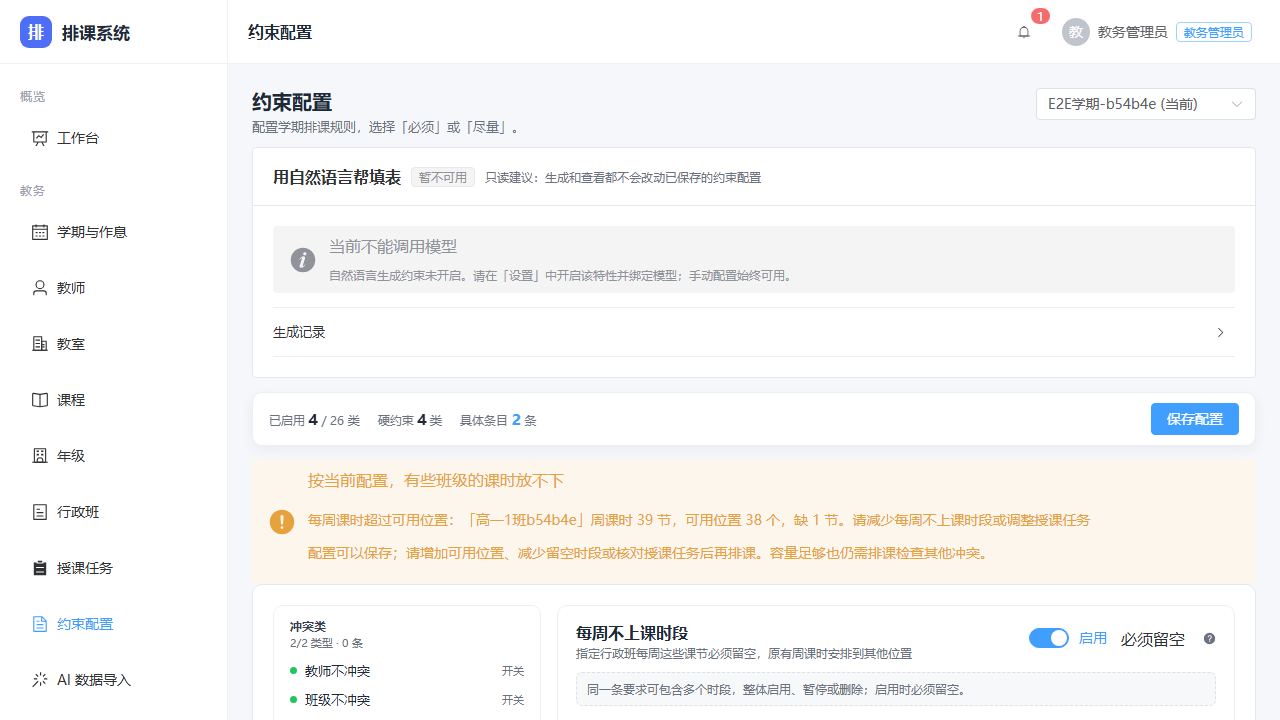
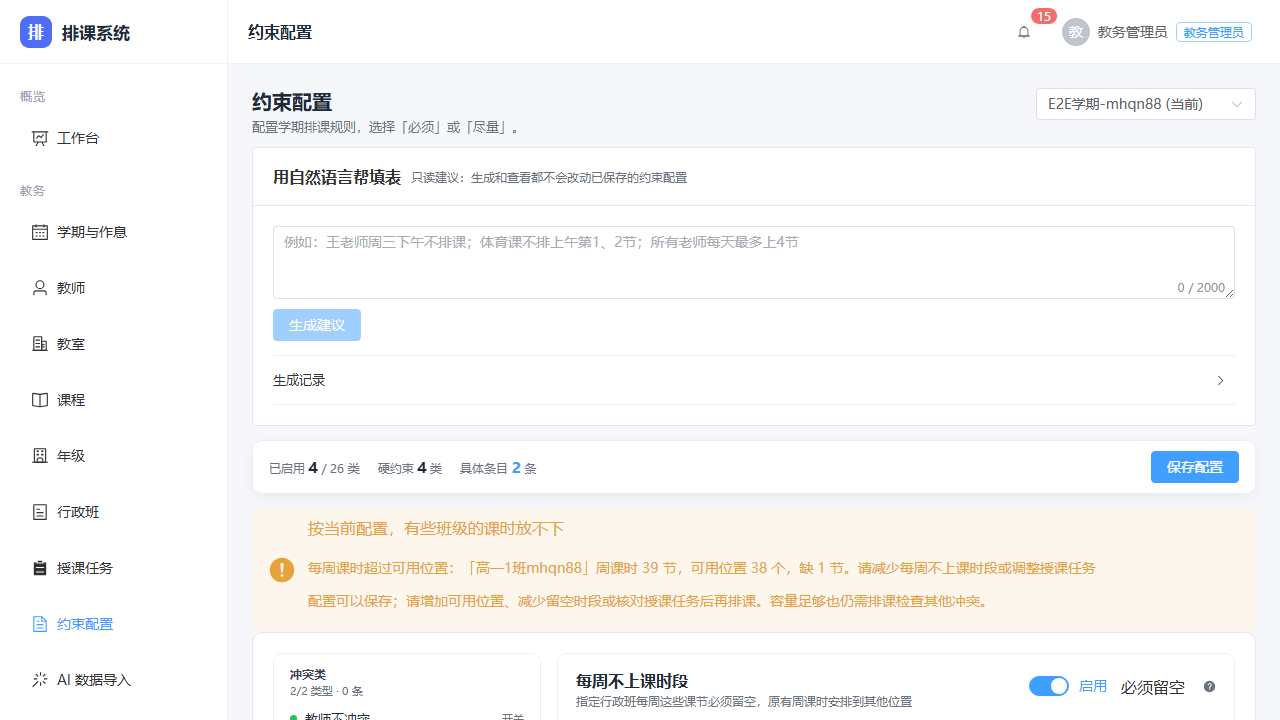
docs(scheduling): close six tickets with full acceptance evidence

diff --git a/.scratch/weekly-no-class-and-algorithm-fixes/acceptance.md b/.scratch/weekly-no-class-and-algorithm-fixes/acceptance.md
@@ -1,32 +1,47 @@
 # 06 统一验收记录
 
-当前阶段：源码与修复已收口，完整运行门禁尚未开始。各票仍in-progress，不能把定向通过当整批done。
+当前阶段：六票实现、主模型算法判断、两轴复审和本地完整门禁已完成。最终同提交GitHub CI的真实PostgreSQL检查是发布前的外部验证；本机没有Docker，不将H2替代它。本轮未合并main、未部署生产。
 
 ## 版本与范围
 
 - 集成分支：codex/weekly-no-class。
 - 原始基点：4c1cc191bcd286e99e42e4e4a8b7a3ebcd68ba1d。
-- 最后产品代码提交：4ea9444f1d5518b01477467cef7cc61bcdf2e78e。
-- 冻结源码tree：backend `8413a91b92c6cd3723011b0a7a7622050e6f8922`；frontend `822887dbaf86d805ba973056b84b7baffac25b55`；scripts `db843f8b157b4610141022fd9d3ddc879aeb4b0c`。
-- 无新增Flyway迁移，仓库最高V44；未部署生产或修改正式基线。
+- 最后产品逻辑提交：4ea9444f1d5518b01477467cef7cc61bcdf2e78e；其后274216b、2c2e52f仅修目录/浏览器断言与帮助文字。
+- 最终完整运行SHA：2c2e52fba165b269288af5c5eaf00731b4b65a16。
+- 冻结tree：backend `0c10a163060c2a2c06f7f319056f79bbe7ba4a5a`；frontend `39c79ffe8fec4ea3f61b186f8d38d17b4e52b1dd`；scripts `db843f8b157b4610141022fd9d3ddc879aeb4b0c`。
+- 完整运行后仅允许交付文档与截图变更。无新增Flyway迁移，最高V44；未修改正式基线。
 
 ## 评审与算法判断
 
-主模型独立判断见[algorithm-verdict.md](algorithm-verdict.md)。两轴首轮与处置、集中修复后的fresh review、最后分组碰撞修复核对分别见[round1](review-round1.md)、[round2](review-round2.md)、[round3](review-round3.md)。最后一轮Standards与Spec均无新增发现；保留的两项设计选择有明确理由，不作为未修缺陷藏起。
+主模型亲自完成[算法判断](algorithm-verdict.md)，结论限本批修正合格，不宣称全局最优。两轴处置及fresh review见[round1](review-round1.md)、[round2](review-round2.md)、[round3](review-round3.md)。接受项均已修复；两项保留设计有明确理由。最终目录/浏览器兼容补丁另经独立只读核对，保留旧断言含义并扩展新硬规则界面检查。
 
-## 执行记录
+## 最终完整运行
 
-| 层次 | 当前状态 | 证据与边界 |
+2026-11-01 23:35:30至2026-11-02 00:09（Asia/Shanghai），在隔离集成worktree运行 `bash scripts/verify.sh --full`，原始退出码 **0**，终行 `==> verify: ok`。运行期间未改源码或测试，结束后再次核对SHA及三个tree未变。
+
+| 层次 | 实际结果 | 边界 |
 |---|---|---|
-| 三算法反例与有界样本 | 定向完成 | 01–03票内各版本红绿记录，不累加重叠数 |
-| 单班/多班/全校/容量/模板/工作区 | 定向完成 | core/backend/scope-ui及published等delivery |
-| 灰格/拖拽/发布/新班/容量浏览器 | 前版三场景通过，新版范围title待全量执行 | e2e-delivery；后续补丁只追加范围断言 |
-| 分组身份追加反例 | 定向完成 | group-identity-delivery，原版四卡恢复三卡，修复后保持四卡 |
-| 冻结版完整verify.sh --full | 待执行 | 启动后记录实际SHA、退出码与统计 |
-| 真实PostgreSQL | 不计入本地H2 | 本机无Docker；最终同提交CI检查为交付依据 |
+| 后端Maven verify | 1110项，0失败、0错误、8跳过 | DeepSeekManualIT 2、PerformanceBenchmarkIT 2、PostgresContainerIT 4按设置跳过 |
+| 前端lint/build | 通过 | 未以构建代替运行 |
+| 前端单元测试 | 61文件、465项全部通过 | 同冻结版本 |
+| 仓库检查 | 全部通过 | SFC/local dates/e2e helper/isBlank/模块边界/迁移/票状态/AI超时 |
+| Playwright | **141/141通过**，13.3分钟 | 单worker、隔离端口28080/25173；新规则三场景和初中模式均实际执行 |
+| 真实PostgreSQL | 本地未运行 | 以该分支最终提交的PR checks和backend日志为外部证据，必须确认PostgresContainerIT正数执行且skipped=0 |
 
-定向历史数据分别保留在各delivery中，不能把不同版本、重叠用例加成一个虚构总数。本文件只汇总最后完整运行结果。
+参数：PAIBAN_MVN_EXTRA_ARGS=-DforkCount=0，VITEST_MAX_WORKERS=4，MAVEN_OPTS含-Xmx2048m；临时文件与截图均定向到当前worktree。doctor资源足够，但Docker/独立数据库缺失，非“全绿”。
+
+最终完整日志SHA-256：BAF9C67768DCB6A883EAC5411B81C1F58D38C5FE18057E7D4E2B3D6D5352C109。日志和运行缓存为任务临时文件，统计与哈希落盘后清理。
+
+## 失败历史与修正
+
+1. 82c9b66首次完整运行后端1110项中2失败，8跳过：旧entry-backed计数19实际20。前端/浏览器未启动。修正保留原19成员、加入新类型并验证非threshold；定向27项通过。见[catalogue-gate-delivery](catalogue-gate-delivery.md)。
+2. 274216b第二次完整运行后端、前端与仓库检查通过；浏览器133通过、3失败、5串行未运行。两处旧25目录断言和一处默认类型假设已修正；后续定向还发现并修复教师标题默认选择假设，最终三个spec10/10通过。见[e2e-catalogue-gate-delivery](e2e-catalogue-gate-delivery.md)。
+3. 2c2e52f重新完整运行得到上方退出0；没有用定向结果拼成整轮通过。
+
+历史定向数据见各delivery，不能累加不同版本及重叠测试。容量旧版公开API对照、分组碰撞反例、发布基线保护与权限/并发版本均有独立证据。
 
 ## 发布与保护
 
-发布边界、备份和回滚要求见[release-handoff.md](release-handoff.md)及部署跑册。本轮仅开发/验证；主仓库main原有17张已修改截图与其他原型资料不属于本任务，已核对main基点未改、没有暂存这些文件。任务临时worktree与进程在交付前清理。
+见[发布交接](release-handoff.md)及部署跑册。所有执行者worktree已移除，保留集成worktree；测试进程已退出、隔离端口释放。仅保留本功能三张验收截图，任务额外截图及缓存清理。主仓库main原有17张修改截图与其他原型不属于本任务，未暂存或清理。
+
+本记录不声称自然语言支持新第26类、不声称性能基准或真实模型测试已运行。发布后新增规则不自动改写既有基线；仅支持每周固定留空。

diff --git a/.scratch/weekly-no-class-and-algorithm-fixes/issues/03-gap-score-parity.md b/.scratch/weekly-no-class-and-algorithm-fixes/issues/03-gap-score-parity.md
@@ -1,11 +1,11 @@
 # 03: 空堂越多代价越高，求解与校验一致
 
-Status: in-progress
+Status: done
 Priority: P2
 **What to build:** 相同规则下，算法能区分空1节与空3节，优先减少可避免空堂。
 **Blocked by:** None
 **Spec:** ../spec.md
-**Gate:** 规格与拆票已确认并发布；已认领、已定向实现。done 待集成评审与完整门禁（票 06）。
+**Gate:** 已实现、集成、复审，并通过冻结版本完整门禁。最终执行结果、跳过项和真实数据库边界见../acceptance.md；未部署。
 
 - [x] 先固定审查证据A2：软权重40时，1个有效空位扣40、3个扣120；旧求解实现不能通过该断言。
 - [x] 同班最早与最晚课程之间，只统计真实存在且允许上课的空位置；当天边缘无课不计内部空堂。
@@ -14,7 +14,7 @@ Priority: P2
 - [x] 覆盖多个班级、多天、无空堂、多个空堂及不连续作息编号，避免只测一个分数。
 - [x] 定向回归通过，主模型确认评分含义，最终全量由06收口。
 
-## Delivery（implemented awaiting integration）
+## Delivery（历史定向记录；最终收口见06）
 
 - 分支：`codex/weekly-t03`，基点 `2352f04`（含票01晚自习计数的既有修复，未回退）；报告前合入集成 tip `2c54457`（票02 调课环修复），未更新集成分支。改动 `PaibanConstraintProvider.java` + `ConstraintChecker.java` + `EngineConstraintTest.java` + `ConstraintCheckerTest.java`（本票）。
 - 根因：求解器 `classGapMinimized` 只用 `periodNos` 排序后按 `sorted[i]-sorted[i-1]-1` 推算空位，再按「班级/星期」整组扣一次权重；作息缺号（真实只有第1、3节）时凭空造出第2节，且空3格仍只扣一份，故审查证据A2 两个输入都是 `0hard/-40soft`。校验器 `checkClassGap`/`softPenalty` 用 `max-min+1-used.size()`，在同一缺号课表上也会虚增一格。
@@ -28,3 +28,6 @@ Priority: P2
 - 合并后复跑（合入 `2c54457`，含票02 `SwapPlanner`）：主命令 `Tests run: 66, Failures: 0, Errors: 0, Skipped: 0`；扩展集（加票02 的 `SwapPlannerTest` 24 项）`Tests run: 154, Failures: 0, Errors: 0, Skipped: 0`；`SwapPlanPropertyTest` `Tests run: 1, Failures: 0`。三条命令退出码均为 0。
 - 覆盖：公共 `ScoreManager` 评分（1格扣40、3格扣120、缺号作息不虚构第2节、跨班跨天 4 格 -160、排满一天 0、硬配置仅在有真实空位时阻断、关闭不作用）与公共 `ConstraintChecker`（`softPenalty` 40/120、`checkHard` 真实空位才报违规、缺号作息不报、跨班跨天 160、首末之外不计），无 private 反射。
 - 边界与未验证项：本票只跑定向单元/纯 seam 测试，没有执行 HTTP 端点校验与 `ConstraintCatalogueAcceptanceTest` 等 `@SpringBootTest`（`test` profile 是内嵌 `jdbc:h2:mem:paiban_test`，本票未运行该层，不据此推断通过）；该 HTTP 集成层、Playwright 与完整门禁由票06 收口，真实 PostgreSQL 走部署门禁或同提交 CI。票01 的 `EVENING_MAX` 计数谓词未被本票触碰。
+
+
+2026-11-02最终收口：本票接受项已实现并经复审，冻结版本完整门禁通过；最终结论以[统一验收](../acceptance.md)为准，以上定向与待验描述为当时快照。

diff --git a/.scratch/weekly-no-class-and-algorithm-fixes/issues/06-integrate-and-accept.md b/.scratch/weekly-no-class-and-algorithm-fixes/issues/06-integrate-and-accept.md
@@ -1,16 +1,19 @@
 # 06: 集成、两轴复审与完整验收
 
-Status: in-progress
+Status: done
 Priority: P1
 **What to build:** 提供一批能够解释、可验证的算法修复和每周留空功能，准确交付已完成与未验证部分。
 **Blocked by:** 01、02、05（03、04为传递前置）
 **Spec:** ../spec.md
-**Gate:** 01–05与接受修复已集成，主模型算法判断及三轮两轴/fresh核对完成；源码4ea9444冻结，完整运行门禁待执行，统一证据见../acceptance.md。
+**Gate:** 已实现、集成、复审，并通过冻结版本完整门禁。最终执行结果、跳过项和真实数据库边界见../acceptance.md；未部署。
 
 - [x] 核对各票版本、范围和定向证据；三个审查反例先红后绿，有界调课对照样本及求解/校验一致性通过。
 - [x] 主模型完成算法正确性最终判断；执行Standards/Spec两轴复审，修复后重新独立核对，未解决发现落独立票，不假称完成。
-- [ ] 隔离数据跑每周单班/多班/全校、重叠/暂停、可行/不足、导入与warm start修复、手工拖拽、发布、后续调课、模板映射和恢复全链路。
-- [ ] 冻结源码后运行资源自检与一次完整门禁，记录退出码；真实PostgreSQL缺条件则列待验证，不能以H2或跳过测试替代。
-- [ ] 旧课表、旧25类规则、AI只读建议与权限回归通过；新版页面清楚区分“不上课”与“未排课”。
-- [ ] 交付记录回写各票并更新HANDOFF入口；主规格标记实际状态，清除任务临时文件与进程，不触碰其他会话截图/历史资料。
-- [ ] 未经具体发布安排不修改生产环境；交付明确可部署版本、备份/迁移/回滚要求与尚未实测项。
+- [x] 隔离数据跑每周单班/多班/全校、重叠/暂停、可行/不足、导入与warm start修复、手工拖拽、发布、后续调课、模板映射和恢复全链路。
+- [x] 冻结源码后运行资源自检与一次完整门禁，记录退出码；真实PostgreSQL缺条件则列待验证，不能以H2或跳过测试替代。
+- [x] 旧课表、旧25类规则、AI只读建议与权限回归通过；新版页面清楚区分“不上课”与“未排课”。
+- [x] 交付记录回写各票并更新HANDOFF入口；主规格标记实际状态，清除任务临时文件与进程，不触碰其他会话截图/历史资料。
+- [x] 未经具体发布安排不修改生产环境；交付明确可部署版本、备份/迁移/回滚要求与尚未实测项。
+
+
+2026-11-02最终收口：本票接受项已实现并经复审，冻结版本完整门禁通过；最终结论以[统一验收](../acceptance.md)为准，以上定向与待验描述为当时快照。

diff --git a/.scratch/weekly-no-class-and-algorithm-fixes/issues/01-evening-count.md b/.scratch/weekly-no-class-and-algorithm-fixes/issues/01-evening-count.md
@@ -1,11 +1,11 @@
 # 01: 晚自习上限只统计真正晚自习
 
-Status: in-progress
+Status: done
 Priority: P1
 **What to build:** 设置晚自习上限后，白天课程不再被误算，原有全局与班级例外照常生效。
 **Blocked by:** None
 **Spec:** ../spec.md
-**Gate:** 规格与拆票已确认并发布；已认领、已定向实现。done 待集成评审与完整门禁（票 06）。
+**Gate:** 已实现、集成、复审，并通过冻结版本完整门禁。最终执行结果、跳过项和真实数据库边界见../acceptance.md；未部署。
 
 - [x] 先以“上限0且只有上午课”固定求解/校验分歧，证明旧行为失败。
 - [x] 上午、下午不计入；晚自习恰好达到/超过上限的裁决正确。
@@ -14,7 +14,7 @@ Priority: P1
 - [x] 求解与校验对是否超限一致；本票不扩大到所有阈值评分梯度重写。
 - [x] 定向回归通过并记录真实命令、退出码、版本与剩余问题，最终全量由06收口。
 
-## Delivery（implemented awaiting integration）
+## Delivery（历史定向记录；最终收口见06）
 
 - 分支：`codex/weekly-t01`，基点/集成 tip `5b2a7ae`；改动 `PaibanConstraintProvider.java` + `EngineConstraintTest.java` + `ConstraintCheckerTest.java`（本票）。
 - 根因：`PaibanConstraintProvider` 的 `EVENING_MAX` 走通用 `addThreshold`，按 `Lesson::getAdminClassId` 分组后统计当天**所有**课节；`ConstraintChecker.checkAggregates`/`softPenalty` 早已只收集 `period.section() == PeriodSection.EVENING`，故求解 `-1hard` 而校验 `0` 违规。
@@ -26,3 +26,6 @@ Priority: P1
   - `ConstraintCheckerTest`（HTTP 草稿校验同一 `ConstraintChecker`）：白天不计入、晚自习计入、班级例外替换全局（仅 2 班报 `EVENING_MAX`）、停用配置不产生约束、软设置对白天 0 分、对晚自习按权重 40 分。
 - 定向命令与退出码：`source .tools/env.sh; cd backend; MAVEN_OPTS="-Xmx512m" ./mvnw -B -DforkCount=0 -Dtest="EngineConstraintTest,ConstraintCheckerTest" test` → `Tests run: 56, Failures: 0, Errors: 0, Skipped: 0`，`BUILD SUCCESS`，退出码 0（EngineConstraintTest 47、ConstraintCheckerTest 9）。
 - 边界与未验证项：未单独跑 HTTP 端点；其余裁决入口中 `DraftValidator`（`/validation`、发布前校验）复用同一 `ConstraintChecker`（本就直接只算晚自习），求解器经草稿产生课程。完整门禁、两轴复审与交付由票 06 收口；真实 PostgreSQL 走部署门禁或同提交 CI。
+
+
+2026-11-02最终收口：本票接受项已实现并经复审，冻结版本完整门禁通过；最终结论以[统一验收](../acceptance.md)为准，以上定向与待验描述为当时快照。

diff --git a/.scratch/HANDOFF.md b/.scratch/HANDOFF.md
@@ -1,6 +1,6 @@
 # 接手说明（2026-10-25 会话交接）
 
-> **2026-11-01 每周留空与算法修正：实现后复审中**：用户已显式调用implement-spec，覆盖下方尚未实现的规划快照。集成分支codex/weekly-no-class，目录E:/排课系统/.worktrees/weekly-integration；01–05已实现并有定向/API/浏览器证据，详见[实施记录](weekly-no-class-and-algorithm-fixes/implementation-notes.md)及各delivery文件，不在本入口复制测试数字。主模型已独立判断三项算法修正；[两轴复核与处置](weekly-no-class-and-algorithm-fixes/review-round1.md)列出来源提示和测试接缝等集中修复项，之后fresh review与完整门禁。本机无Docker，最终版本拟由草稿PR的CI补真实PostgreSQL校验；未部署生产。主仓库main既有截图/原型不属于本任务，勿清理或提交。
+> **2026-11-02 每周留空与三项算法修正：开发验收完成，未部署**：六票已实现并复审，集成分支codex/weekly-no-class，目录E:/排课系统/.worktrees/weekly-integration。主模型亲自判断本批算法修正合格；冻结版本完整门禁已通过，全部统计、失败历史和源码tree见[统一验收](weekly-no-class-and-algorithm-fixes/acceptance.md)，不在入口复制数字。本机无Docker，真实PostgreSQL以最终同提交草稿PR的CI日志核对。未合并main、未部署生产；仅保留集成worktree，执行者与任务临时进程已清理。主仓库既有截图/原型未动。下方“尚未实现”是旧规划快照。
 
 > **2026-11-01 六票已正式发布（尚未实现）**：用户要求修复主模型亲自审查发现的三项算法问题，并新增“每周不上课时段”；已选择第一版只做每周固定、全校或部分班级、原课时排到其他位置，不含具体日期停课。用户澄清并确认全天连续节次：上午4节+下午3节+晚上2节为第1–9节，晚自习只是时间段标签。规格和六张正式票在 [weekly-no-class-and-algorithm-fixes/spec.md](weekly-no-class-and-algorithm-fixes/spec.md) 与 [ticket-plan.md](weekly-no-class-and-algorithm-fixes/ticket-plan.md)，均已 `ready-for-agent`；未认领、未编码，初始frontier为01/02/03，03→04→05，06收口。01/03共用文件默认串行，02只在资源和写集合允许时独立并行。算法最终判断由主模型负责。本轮仅拆票发布，不自动实施或部署。审查反例和实现定位在该目录 `audit-evidence.md`。
 

diff --git a/.scratch/weekly-no-class-and-algorithm-fixes/release-handoff.md b/.scratch/weekly-no-class-and-algorithm-fixes/release-handoff.md
@@ -1,11 +1,11 @@
 # 发布交接边界
 
-本批实现与验收在`codex/weekly-no-class`集成分支。本轮没有部署、合并main或更改生产数据，生产当前运行版本未在本轮复验。代码与最终门禁结论以06验收记录为准；当前仍在集中修复后的复审阶段。
+本批实现与验收在`codex/weekly-no-class`集成分支。本轮没有部署、合并main或更改生产数据，生产当前运行版本未在本轮复验。代码与最终门禁结论以06验收记录为准；本地完整门禁已通过；最终同提交CI是额外数据库验证依据。
 
 数据库结构没有变化，未新增Flyway迁移，仓库最高版本仍为V44。新增规则复用constraint_config、constraint_entry的既有条目/分组/版本/审计机制。旧规则默认保持；没有每周不上课配置的学期不会自动增加留空要求。
 
-正式发布需沿用[部署跑册](../../docs/runbooks/deploy.md)：选定实际验证过的源码版本，保存数据库备份与原应用镜像，核对迁移/容器健康和业务冒烟。当前本机无Docker，真实PostgreSQL校验拟由同版本GitHub CI提供；H2验证不能替代它。
+正式发布需沿用[部署跑册](../../docs/runbooks/deploy.md)：选定实际验证过的源码版本，保存数据库备份与原应用镜像，核对迁移/容器健康和业务冒烟。本机无Docker，真实PostgreSQL校验由最终同提交GitHub CI的backend日志核对；H2验证不能替代它。
 
-本批没有DDL变更，应用代码可以回退到原版本；正式发布仍必须保留备份。新增规则可能让现有草稿出现冲突或剩余位置不足，这是应提示教务修正规则/任务的业务结果，不能通过删课或改正式基线掩盖。原始已发布课表保留，后续调课受当前规则约束。
+本批没有DDL变更，应用代码可以回退到原版本；旧版应用不执行新增禁排规则，回退后教务必须知晓该行为；正式发布仍必须保留备份。新增规则可能让现有草稿出现冲突或剩余位置不足，这是应提示教务修正规则/任务的业务结果，不能通过删课或改正式基线掩盖。原始已发布课表保留，后续调课受当前规则约束。
 
 自然语言生成新类型尚未开放，继续手动配置；具体日期临时停课/补课不在此批范围。不得把容量足够说成已证明能排完所有教师/教室/组合约束。

diff --git a/.scratch/weekly-no-class-and-algorithm-fixes/issues/02-safe-cycle-pruning.md b/.scratch/weekly-no-class-and-algorithm-fixes/issues/02-safe-cycle-pruning.md
@@ -1,11 +1,11 @@
 # 02: 不提前漏掉合法的三课置换环
 
-Status: in-progress
+Status: done
 Priority: P1
 **What to build:** 合法的多人调课不会因为尚未完成的中间状态被误报无解。
 **Blocked by:** None
 **Spec:** ../spec.md
-**Gate:** 规格与拆票已确认；已由 `codex/weekly-t02` 认领，定向回归完成，待最终集成验收。
+**Gate:** 已实现、集成、复审，并通过冻结版本完整门禁。最终执行结果、跳过项和真实数据库边界见../acceptance.md；未部署。
 
 - [x] 将审查证据A3做成回归：独立校验接受已知三课环，而现有搜索找不到；修复后产生满足该目标的合法候选。
 - [x] 提前排除只使用对后续扩展安全的条件；每个候选同时应用全部移动后检查最终硬约束。
@@ -25,3 +25,6 @@ Priority: P1
 - 红：`C:\Users\liu\AppData\Local\Programs\GitPortable\bin\bash.exe -lc "source .tools/env.sh; cd backend; MAVEN_OPTS='-Xmx512m' ./mvnw -B -DforkCount=0 -Dtest=SwapPlannerTest,PlanVerifierTest,SwapPlanPropertyTest test > ../t02-red.log 2>&1"`；结果 `BUILD FAILURE`，`Tests run: 29, Failures: 2, Errors: 0, Skipped: 0`，失败为 A3 搜索和预算文案。
 - 绿：同一命令输出到 `../t02-green-review.log`；结果 `exit=0`，`BUILD SUCCESS`，`Tests run: 33, Failures: 0, Errors: 0, Skipped: 0`（`PlanVerifierTest` 8、`SwapPlannerTest` 24、`SwapPlanPropertyTest` 1；200 个固定 seed 属性测试通过）。合入集成 `codex/weekly-no-class` 最新 tip `2352f04` 后用同一命令复跑也 `exit=0`、`Tests run: 33, Failures: 0, Errors: 0, Skipped: 0`。
 - 临时日志仅在当前 worktree，报告前清理；未跑全量 / e2e / 生产 / 外网。
+
+
+2026-11-02最终收口：本票接受项已实现并经复审，冻结版本完整门禁通过；最终结论以[统一验收](../acceptance.md)为准，以上定向与待验描述为当时快照。

diff --git a/.scratch/weekly-no-class-and-algorithm-fixes/issues/04-single-class-weekly-block.md b/.scratch/weekly-no-class-and-algorithm-fixes/issues/04-single-class-weekly-block.md
@@ -1,11 +1,11 @@
 # 04: 一个班每周指定位置不上课的完整闭环
 
-Status: in-progress
+Status: done
 Priority: P1
 **What to build:** 教务给一个行政班设置每周若干课节不上课，保存后排课、拖拽、发布和后续调课共同遵守。
 **Blocked by:** 03
 **Spec:** ../spec.md
-**Gate:** 实现与定向验收已完成，三个Playwright场景通过；等待06复审和冻结版本完整门禁，状态仍为in-progress。
+**Gate:** 已实现、集成、复审，并通过冻结版本完整门禁。最终执行结果、跳过项和真实数据库边界见../acceptance.md；未部署。
 
 - [x] 既有约束页中可选一个本学期班级与多课节、保存/刷新回显、暂停/删除；新类型默认无效，始终硬约束，权限和配置版本受保护。
 - [x] 第8、第9节等晚间课节与白天一样可直接选择；不另立晚间课表、不减少或重复统计周课时。
@@ -21,3 +21,6 @@ Priority: P1
 ## Delivery
 
 核心5d92b58、前端d13bdda、AI622c9ae、全目录46fead7均已合入。核心117项、AI9项、目录/模板61项、单班Playwright1/1通过；后续CLI18项与发布边界2项另有记录，不累加重叠数量。见core-delivery、ui-delivery、catalogue-delivery、cli-delivery、published-delivery。无新增迁移。05负责多班/全校及工作区完整往返，06做最后复审和完整门禁。
+
+
+2026-11-02最终收口：本票接受项已实现并经复审，冻结版本完整门禁通过；最终结论以[统一验收](../acceptance.md)为准，以上定向与待验描述为当时快照。

diff --git a/.scratch/weekly-no-class-and-algorithm-fixes/issues/05-school-scope-and-capacity.md b/.scratch/weekly-no-class-and-algorithm-fixes/issues/05-school-scope-and-capacity.md
@@ -1,11 +1,11 @@
 # 05: 多班/全校留空与课时放不下的解释
 
-Status: in-progress
+Status: done
 Priority: P1
 **What to build:** 教务一次配置多个班或全校，并在可用位置不足时获得可执行的说明。
 **Blocked by:** 04
 **Spec:** ../spec.md
-**Gate:** 实现与定向验收已完成，三个Playwright场景通过；等待06复审和冻结版本完整门禁，状态仍为in-progress。
+**Gate:** 已实现、集成、复审，并通过冻结版本完整门禁。最终执行结果、跳过项和真实数据库边界见../acceptance.md；未部署。
 
 - [x] 明确选择“全校/指定班级”，后者支持多选且不能为空；共享分组保存/恢复一致，全校覆盖后续新增班级。
 - [x] 多条规则取并集，重叠只计一次；暂停一条后其他覆盖仍生效，指定班级不误转换全校。
@@ -19,3 +19,6 @@ Priority: P1
 ## Delivery
 
 后端89f3eef、前端8b543f6、浏览器脚本1acf0e3已合入。后端235项广定向及队列3项通过，三条Playwright实际3/3通过；旧版容量API对照2项均失败，新版均通过。证据见backend-delivery、scope-ui-delivery、capacity-baseline-delivery、e2e-delivery与published-delivery。无新增迁移；尚未全量/真实PostgreSQL验收，未部署。
+
+
+2026-11-02最终收口：本票接受项已实现并经复审，冻结版本完整门禁通过；最终结论以[统一验收](../acceptance.md)为准，以上定向与待验描述为当时快照。

diff --git a/.scratch/weekly-no-class-and-algorithm-fixes/implementation-notes.md b/.scratch/weekly-no-class-and-algorithm-fixes/implementation-notes.md
@@ -22,6 +22,6 @@
 
 01–05代码已集成，定向/API/浏览器证据及各版本边界见backend-delivery、scope-ui-delivery、e2e-delivery、published-delivery和capacity-baseline-delivery。数量按各记录对应版本解读，不累加重叠测试。最终统一结果将写入06验收记录。
 
-主模型算法判断见algorithm-verdict.md。两轴首轮独立只读复核与主模型逐项处置见review-round1.md；唯一review-fix代理正在codex/weekly-review-fix落实接受项，之后fresh review。尚未跑冻结版本完整verify。
+2026-11-02收口：主模型算法判断、两轴集中修复与fresh review完成；最终冻结版本完整verify通过，所有票据done。统一统计、失败历史、源码tree与真实数据库外部检查边界见acceptance.md。执行者worktree与任务临时进程已清理。
 
 当前本机无Docker或可用PostgreSQL；H2通过不代表真实数据库已验证。未部署生产，生产状态本轮未复验。

diff --git a/.scratch/weekly-no-class-and-algorithm-fixes/algorithm-verdict.md b/.scratch/weekly-no-class-and-algorithm-fixes/algorithm-verdict.md
@@ -19,3 +19,6 @@
 结论：这三处确定性错误已被针对性修正，新规则的数学含义与用户要求一致。就本批算法范围，可按“修正后合格”进入最终验收；不据此宣称整个系统的全部排课偏好都优秀、所有规模都达到最优。后续仍需等待两轴复审及冻结版本完整门禁，再给出整批交付状态。
 
 2026-11-01收口：全部接受项修复后，主模型再次核对4ea9444，三处排课/调课算法数学未被后续UI/身份修复改写。主模型对本批算法范围的最终判断保持合格；完整运行与真实数据库证据单独记在acceptance.md，不以此判断替代运行门禁。
+
+
+2026-11-02最终运行验收：2c2e52f完整门禁已通过。后续补丁仅测试目录、显式页面选择和帮助文案，主模型核对其未改写上述算法；判断仍为本批修正合格。真实PostgreSQL与发布边界见acceptance.md。
